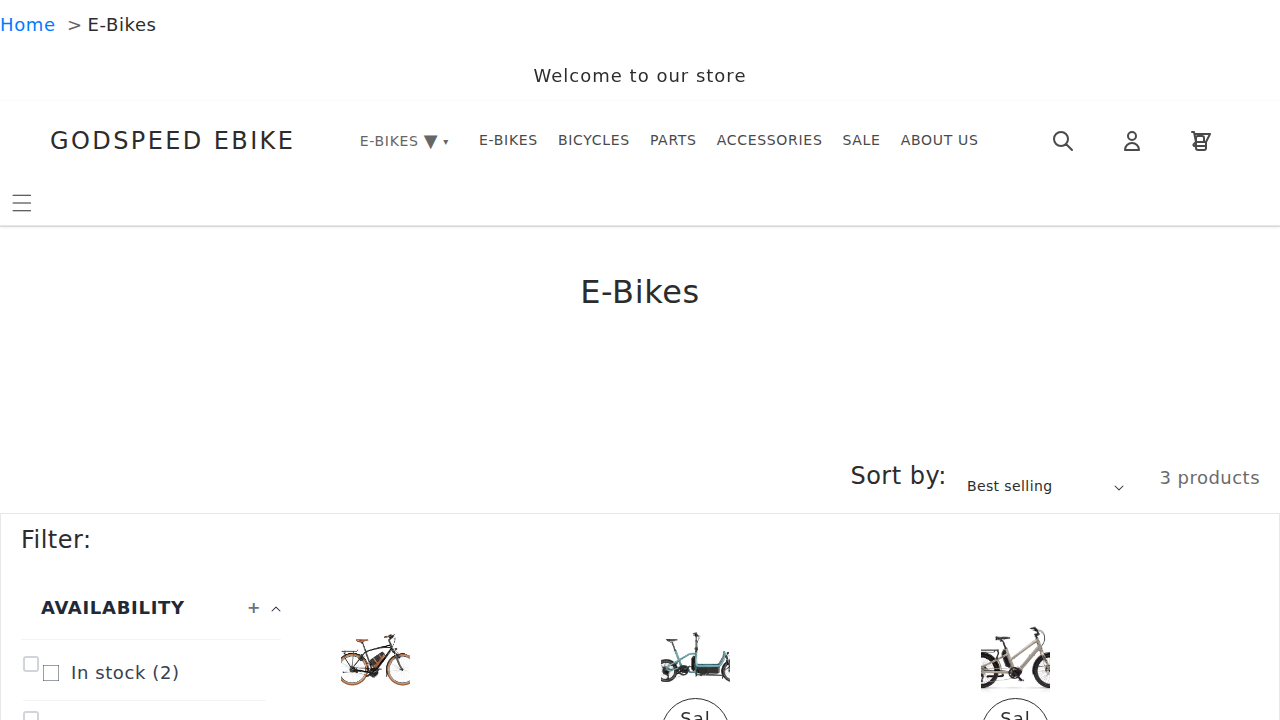
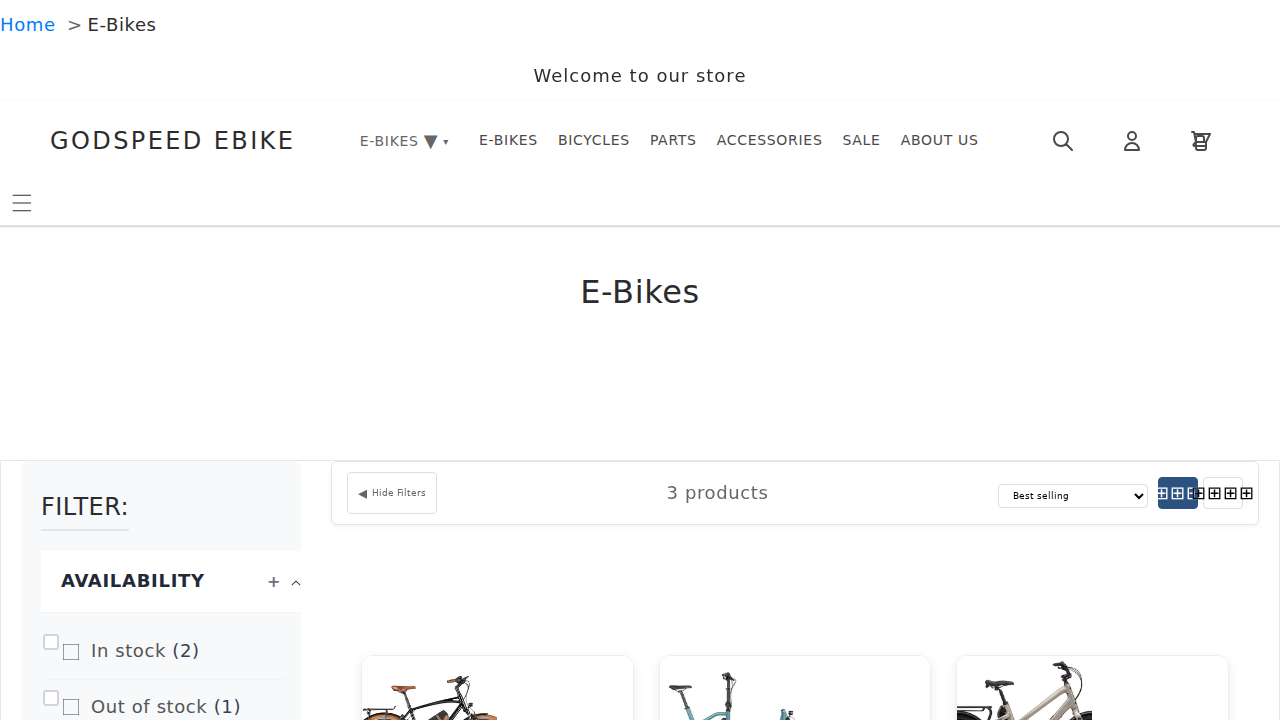
Add target layout CSS and category navigation to match design exactly

diff --git a/assets/target-layout.css b/assets/target-layout.css
@@ -1,0 +1,270 @@
+/* TARGET LAYOUT CSS - EXACT MATCH */
+
+/* Main layout container */
+.facets-vertical {
+  display: grid;
+  grid-template-columns: 280px 1fr;
+  gap: 40px;
+  max-width: 1200px;
+  margin: 0 auto;
+  padding: 0 20px;
+}
+
+/* Left sidebar styling */
+.facets-wrapper {
+  background: #f8f8f8;
+  padding: 30px;
+  border-radius: 0;
+  height: fit-content;
+}
+
+/* Category navigation in sidebar */
+.collection-categories {
+  margin-bottom: 30px;
+}
+
+.collection-categories ul {
+  list-style: none;
+  padding: 0;
+  margin: 0;
+}
+
+.collection-categories li {
+  margin-bottom: 8px;
+}
+
+.collection-categories a {
+  color: #333;
+  text-decoration: none;
+  font-size: 14px;
+  font-weight: 500;
+  text-transform: uppercase;
+  letter-spacing: 0.5px;
+}
+
+.collection-categories a:hover,
+.collection-categories a.active {
+  color: #000;
+  font-weight: 600;
+}
+
+/* Filter sections */
+.facets__disclosure {
+  border-bottom: 1px solid #e5e5e5;
+  margin-bottom: 20px;
+}
+
+.facets__summary {
+  font-weight: 600;
+  font-size: 14px;
+  text-transform: uppercase;
+  letter-spacing: 0.5px;
+  color: #333;
+  padding: 15px 0;
+}
+
+/* Price range slider */
+.facets__price {
+  display: flex;
+  gap: 10px;
+  align-items: center;
+  margin: 15px 0;
+}
+
+.field__input {
+  border: 1px solid #ddd;
+  padding: 8px 10px;
+  border-radius: 4px;
+  width: 80px;
+  font-size: 14px;
+}
+
+/* Main content area */
+.product-grid-container {
+  min-height: 600px;
+}
+
+/* Top toolbar */
+.collection-toolbar {
+  display: flex;
+  justify-content: space-between;
+  align-items: center;
+  margin-bottom: 30px;
+  padding: 15px 0;
+  border-bottom: 1px solid #e5e5e5;
+}
+
+.toolbar-left {
+  display: flex;
+  align-items: center;
+  gap: 20px;
+}
+
+.hide-filters-btn {
+  background: none;
+  border: 1px solid #ddd;
+  padding: 8px 15px;
+  font-size: 12px;
+  text-transform: uppercase;
+  letter-spacing: 0.5px;
+  cursor: pointer;
+}
+
+.product-count {
+  font-size: 14px;
+  color: #666;
+}
+
+.toolbar-right {
+  display: flex;
+  align-items: center;
+  gap: 15px;
+}
+
+.sort-dropdown {
+  border: 1px solid #ddd;
+  padding: 8px 12px;
+  font-size: 14px;
+  background: white;
+  cursor: pointer;
+}
+
+.grid-toggle {
+  display: flex;
+  gap: 5px;
+}
+
+.grid-toggle button {
+  background: none;
+  border: 1px solid #ddd;
+  padding: 6px 8px;
+  cursor: pointer;
+}
+
+.grid-toggle button.active {
+  background: #333;
+  color: white;
+}
+
+/* Product grid - EXACTLY 3 columns */
+.collection {
+  padding: 0;
+}
+
+#product-grid {
+  display: grid;
+  grid-template-columns: repeat(3, 1fr);
+  gap: 30px;
+  margin: 0;
+  padding: 0;
+  list-style: none;
+}
+
+/* Product cards */
+.grid__item {
+  margin: 0;
+}
+
+.card {
+  background: white;
+  border: none;
+  border-radius: 0;
+  box-shadow: 0 2px 8px rgba(0,0,0,0.1);
+  overflow: hidden;
+  transition: transform 0.3s ease;
+}
+
+.card:hover {
+  transform: translateY(-5px);
+  box-shadow: 0 4px 16px rgba(0,0,0,0.15);
+}
+
+.card__media {
+  position: relative;
+  aspect-ratio: 1;
+  overflow: hidden;
+}
+
+.card__media img {
+  width: 100%;
+  height: 100%;
+  object-fit: cover;
+}
+
+/* Product info */
+.card__content {
+  padding: 20px;
+  text-align: center;
+}
+
+.card__heading {
+  font-size: 16px;
+  font-weight: 500;
+  margin: 0 0 10px 0;
+  line-height: 1.3;
+}
+
+.card__heading a {
+  color: #333;
+  text-decoration: none;
+}
+
+/* Price styling */
+.price {
+  font-size: 18px;
+  font-weight: 600;
+  color: #e74c3c;
+}
+
+.price__regular {
+  color: #999;
+  text-decoration: line-through;
+  font-size: 14px;
+  margin-right: 8px;
+}
+
+/* Sale badges */
+.card__badge {
+  position: absolute;
+  top: 15px;
+  left: 15px;
+  z-index: 2;
+}
+
+.badge {
+  background: #e74c3c;
+  color: white;
+  padding: 6px 12px;
+  font-size: 12px;
+  font-weight: 600;
+  text-transform: uppercase;
+  letter-spacing: 0.5px;
+  border-radius: 2px;
+}
+
+.badge--save {
+  background: #27ae60;
+}
+
+/* Mobile responsiveness */
+@media screen and (max-width: 990px) {
+  .facets-vertical {
+    grid-template-columns: 1fr;
+    gap: 20px;
+  }
+  
+  .facets-wrapper {
+    order: -1;
+  }
+  
+  #product-grid {
+    grid-template-columns: repeat(2, 1fr);
+    gap: 20px;
+  }
+}
+
+@media screen and (max-width: 749px) {
+  #product-grid {
+    grid-template-columns: 1fr;
+  }
+}
